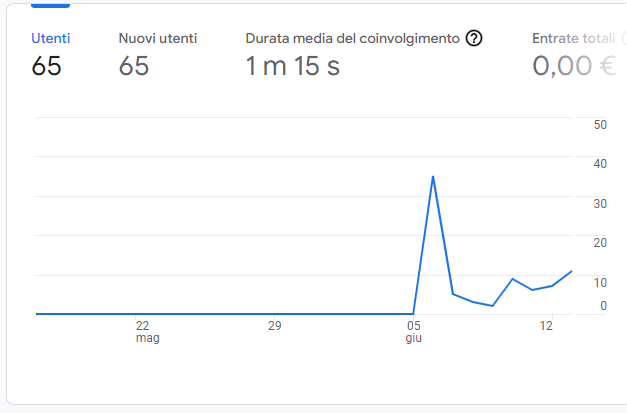
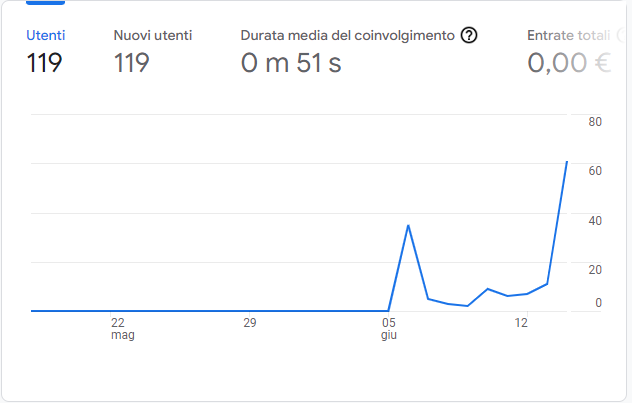
aggioramento visitatori

diff --git a/documentazione.html b/documentazione.html
@@ -105,7 +105,7 @@
 			<p>Ho utilizzato il mio profilo instragram, sia tramite un post, che una story, per pubblicizzare il sito. Molti dei miei follower condividono con me la passione per l'hip hop e rap, quindi possono essere interessati a visitare il mio sito.</br> Inoltre all'interno del mio sito ho inserito anche una newsletter attraverso la quale posso fidelizzare i visitatori.</p>
 	
 		<h4>Risultati</h4>
-		<p>Ho raggiunto di buoni risultati pubblicizzando il sito attraverso instagram, dove si può raggiungere in maniera molto rapida in target a cui mi rivolgo. Ho potuto constatarlo usando il tracking di Google Analytics e vedendo il numero di visualizzazione alle mie storie e i like al mio post, che ho pubblicato in orario serale, perché è il momento in cui il social è più frequentato.</p>
+		<p>Ho raggiunto di buoni risultati pubblicizzando il sito attraverso instagram, dove si può raggiungere in maniera molto rapida in target a cui mi rivolgo. Ho potuto constatarlo usando il tracking di Google Analytics e vedendo il numero di visualizzazione alle mie storie e i like al mio post, che ho pubblicato in orario serale, perché è il momento in cui il social è più frequentato. <br> Diverse persone che condividono con me questa passine mi hanno contatta dicendo che li avevo fatti tornare indietro nel tempo. Questo è il risultato che speravo di ottenere.</p>
 
 			<p id="ark"><img src="immagini/analytics.png"> </p>
 			<p id="ark"><img src="immagini/post.jpeg"> </p>
